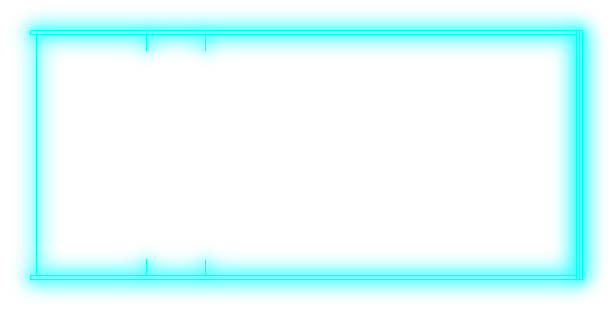
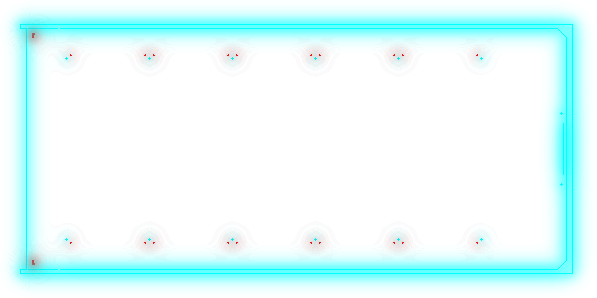
improved truck graphics

Changed region(s): [[0.0, 0.0302, 0.995, 0.9664], [0.7839, 0.7852, 0.8141, 0.8154], [0.7839, 0.1812, 0.8141, 0.2114]]

diff --git a/game/ingredients/car.cpp b/game/ingredients/car.cpp
@@ -108,7 +108,7 @@ namespace prefabs {
 
 			render.layer = render_layer::CAR_WHEEL;
 
-			sprite.set(assets::texture_id::CAR_INSIDE, augs::rgba(29, 0, 0, 255));
+			sprite.set(assets::texture_id::CAR_INSIDE, augs::rgba(29, 0, 0, 0));
 			sprite.size.set(60, 30);
 
 			auto& fixture = colliders.new_collider();

diff --git a/augs/audio/audio_manager.cpp b/augs/audio/audio_manager.cpp
@@ -30,8 +30,7 @@ namespace augs {
 		device = alcOpenDevice(nullptr);
 
 		context = alcCreateContext(device, nullptr);
-		ALuint in;
-		alGenEffects(0, &in);
+		
 		if (!context || !make_current()) {
 			if (context) {
 				alcDestroyContext(context);
